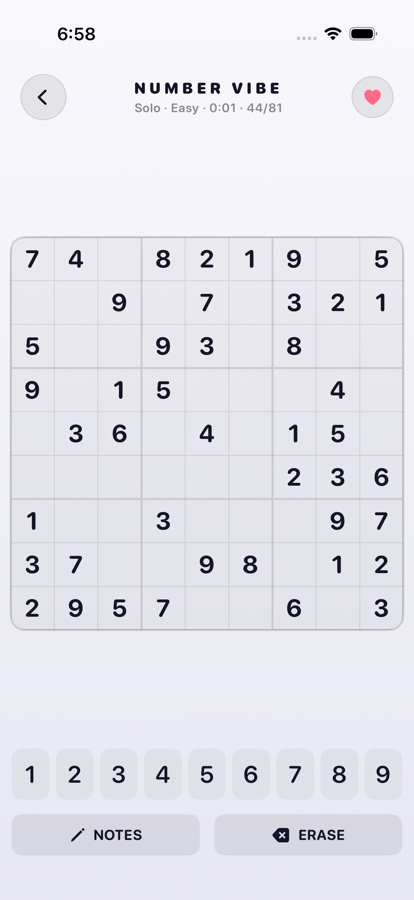
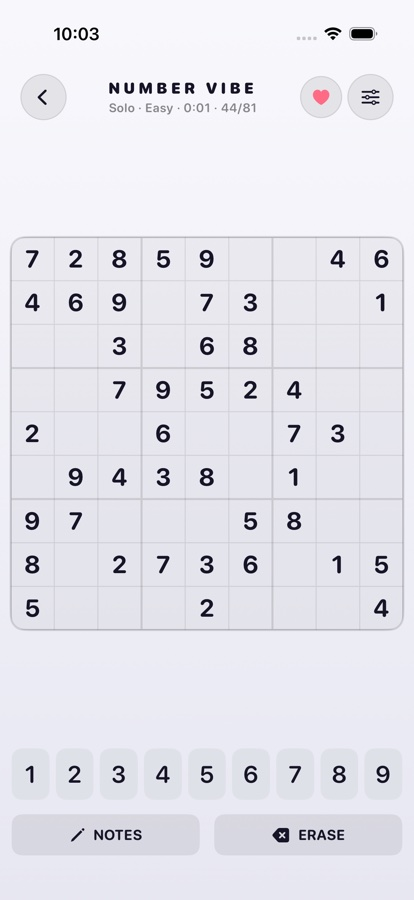
Refresh the Number Vibe screenshots for the settings button
Both landing-page pictures were shot before Number Vibe had a settings button, so
they showed a header the app no longer has. Recaptured from the simulator in both
appearances — the grid mid-solve and the shared waiting room — with the sliders
button beside the heart and the two-key pad under the grid.

`?v=` goes to 5, because Hosting serves these with a week's `max-age` and a
returning visitor would otherwise keep the old picture.

Checked: the four files are 414x900, the live URLs return the new bytes, and the
SEO and branding guards still pass.

diff --git a/site/index.html b/site/index.html
@@ -314,8 +314,8 @@
 </div>
 
     <div class="game__shots">
-      <div class="phone reveal-up"><picture><source srcset="assets/screens/vibesudoku-grid-dark.jpg?v=4" media="(prefers-color-scheme: dark)" /><img src="assets/screens/vibesudoku-grid-light.jpg?v=4" alt="A Sudoku grid mid-solve with the number keypad below" width="414" height="900" loading="lazy" decoding="async" /></picture></div>
-      <div class="phone phone--peek reveal-up" data-delay="1"><picture><source srcset="assets/screens/vibesudoku-shared-dark.jpg?v=4" media="(prefers-color-scheme: dark)" /><img src="assets/screens/vibesudoku-shared-light.jpg?v=4" alt="Waiting for everyone to join a shared Number Vibe race" width="414" height="900" loading="lazy" decoding="async" /></picture></div>
+      <div class="phone reveal-up"><picture><source srcset="assets/screens/vibesudoku-grid-dark.jpg?v=5" media="(prefers-color-scheme: dark)" /><img src="assets/screens/vibesudoku-grid-light.jpg?v=5" alt="A Sudoku grid mid-solve with the number keypad below" width="414" height="900" loading="lazy" decoding="async" /></picture></div>
+      <div class="phone phone--peek reveal-up" data-delay="1"><picture><source srcset="assets/screens/vibesudoku-shared-dark.jpg?v=5" media="(prefers-color-scheme: dark)" /><img src="assets/screens/vibesudoku-shared-light.jpg?v=5" alt="Waiting for everyone to join a shared Number Vibe race" width="414" height="900" loading="lazy" decoding="async" /></picture></div>
     </div>
   </div>
 </section>
